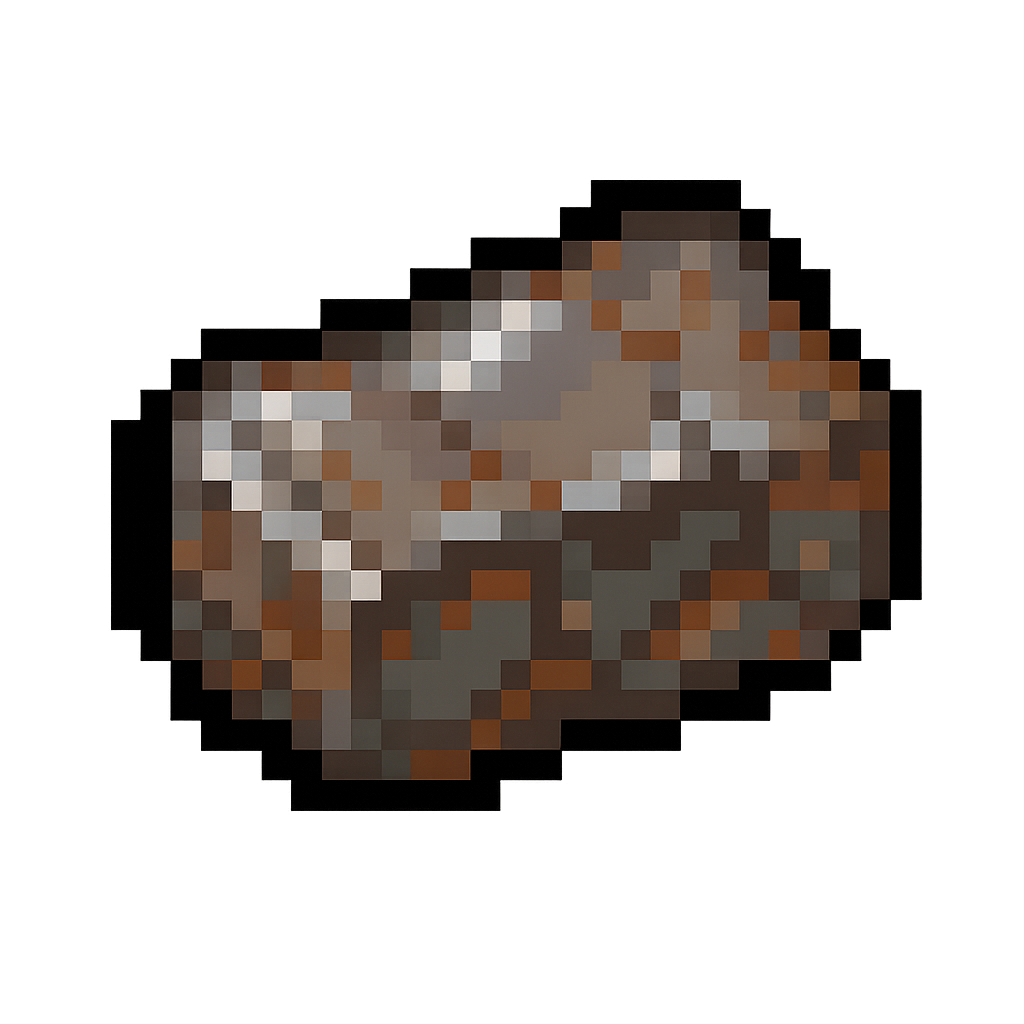
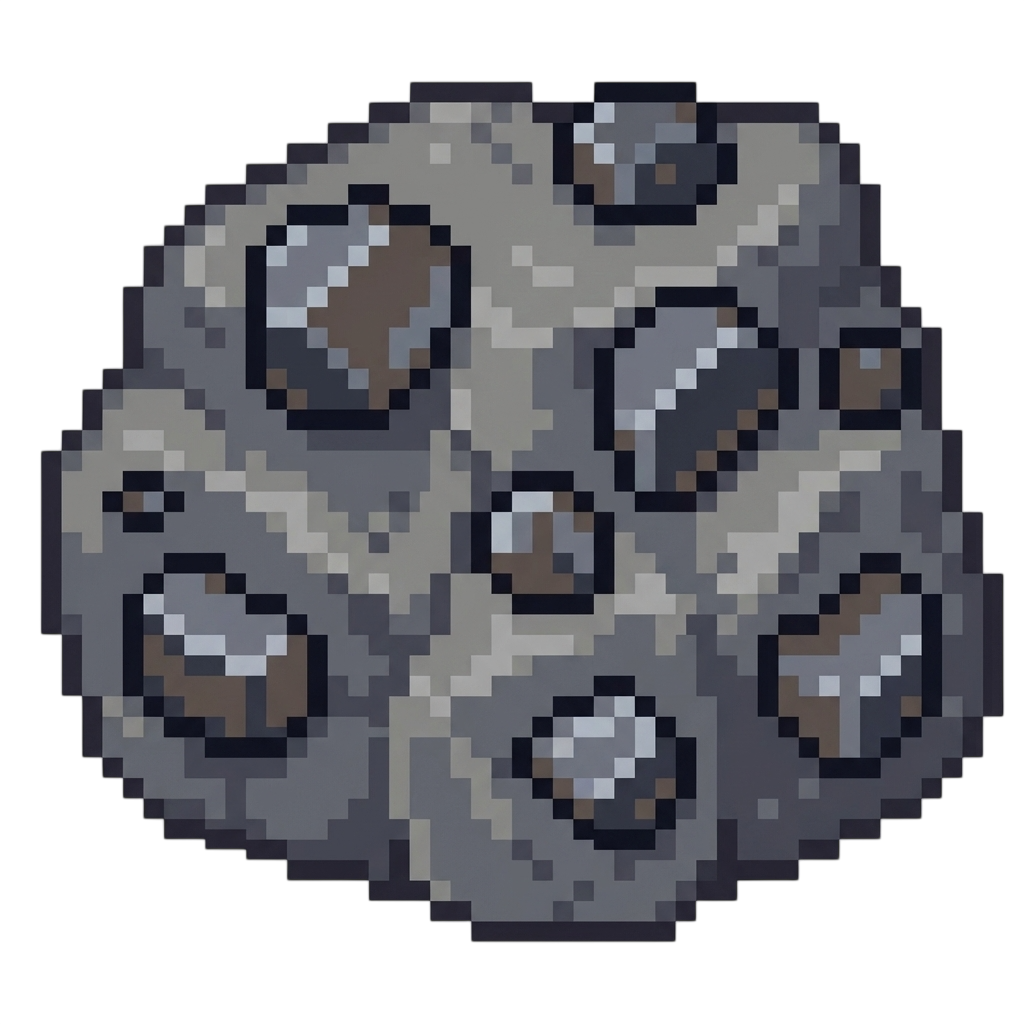
시설 업그레이드 및 동기화 로직 개선, 모바일 로그아웃 수정
- 시설 업그레이드 시 골드 및 자원 차감 로직 구현 (useGameStore.ts)
- 시설 데이터 저장 시 upsert 사용하여 누락 방지 (useFacilities.ts, useBatchSync.ts)
- 모바일 로그아웃 시 화면 겹침 해결을 위한 페이지 새로고침 추가 (UIOverlay.tsx)
- 대장간 생산품(주괴) 이미지 경로 수정 및 철광석 이미지 교체
- 배치 동기화 에러(23514) 발생 시 자동 복구 로직 추가

diff --git a/src/store/useGameStore.ts b/src/store/useGameStore.ts
@@ -68,29 +68,58 @@ export const useGameStore = create<GameState>((set, get) => ({
     batchFacilitySyncCallback: null,
     setBatchFacilitySyncCallback: (callback) => set({ batchFacilitySyncCallback: callback }),
 
-    upgradeFacility: async (facilityId, _cost) => {
+    upgradeFacility: async (facilityId, cost) => {
         const state = get()
+        const { consumeMaterials, playerMaterials } = useAlchemyStore.getState()
 
-        // Check if affordable
-        // Note: cost logic might need to be more robust, assuming cost contains materialIds and gold
-        // For now, simple deduction
-        // This is a simplified implementation to fix the crash. 
-        // Real implementation might need to verify detailed costs.
+        // 1. Separate Gold and Materials
+        const goldCost = cost['gold'] || 0
+        const materialCost = { ...cost }
+        delete materialCost['gold']
 
-        // Deduct resources
-        // We need to access useAlchemyStore to ensure material counts are accurate if they are separate?
-        // But useGameStore.resources seems to be a mirror.
+        // 2. Check Sufficiency
+        // Check Gold
+        const currentGold = state.resources['gold'] || 0
+        if (currentGold < goldCost) {
+            console.warn(`[GameStore] Not enough gold: ${currentGold} < ${goldCost}`)
+            return
+        }
 
-        // TODO: Implement proper cost deduction verification if needed. 
-        // For now trusting the UI/caller has verified or we verify here.
+        // Check Materials
+        for (const [matId, amount] of Object.entries(materialCost)) {
+            const currentAmount = playerMaterials[matId] || 0
+            if (currentAmount < amount) {
+                console.warn(`[GameStore] Not enough material ${matId}: ${currentAmount} < ${amount}`)
+                return
+            }
+        }
 
-        // Updating local state
+        // 3. Deduct Resources
+        // Deduct Gold
+        if (goldCost > 0) {
+            const newResources = { ...state.resources }
+            newResources['gold'] = currentGold - goldCost
+            set({ resources: newResources })
+
+            // Sync Gold (Assume legacy system handles gold sync via useBatchSync/useResources or dedicated gold sync?)
+            // Currently useBatchSync only handles player_material via useAlchemyStore callback
+            // We might need to manually sync gold or use a callback if available.
+            // Looking at useBatchSync logic: it might not cover gold if gold is in player_resource.
+            // Let's rely on local state update for now, user didn't mention gold not saving, just not deducting.
+        }
+
+        // Deduct Materials
+        if (Object.keys(materialCost).length > 0) {
+            await consumeMaterials(materialCost)
+        }
+
+        // 4. Update Facility Level
         const newFacilities = { ...state.facilities }
         newFacilities[facilityId] = (newFacilities[facilityId] || 0) + 1
 
         set({ facilities: newFacilities })
 
-        // Trigger sync callback
+        // Trigger sync callback (Facility Level)
         if (state.batchFacilitySyncCallback) {
             state.batchFacilitySyncCallback(facilityId, newFacilities[facilityId])
         }

diff --git a/src/hooks/useBatchSync.ts b/src/hooks/useBatchSync.ts
@@ -95,13 +95,20 @@ export function useBatchSync(
         if (error) throw error
       }
 
-      // 2. 시설 동기화
-      for (const [facilityId, level] of Object.entries(facilityUpdates)) {
-        await supabase
+      // 2. 시설 동기화 (upsert 사용 - 레코드가 없어도 생성되도록)
+      if (Object.keys(facilityUpdates).length > 0) {
+        const facilityRecords = Object.entries(facilityUpdates).map(([facilityId, level]) => ({
+          user_id: userId,
+          facility_id: facilityId,
+          current_level: level,
+          updated_at: new Date().toISOString()
+        }))
+
+        const { error: facilityError } = await supabase
           .from('player_facility')
-          .update({ current_level: level })
-          .eq('user_id', userId)
-          .eq('facility_id', facilityId)
+          .upsert(facilityRecords, { onConflict: 'user_id,facility_id' })
+
+        if (facilityError) throw facilityError
       }
 
       // 성공 시 큐 초기화
@@ -109,11 +116,23 @@ export function useBatchSync(
       pendingFacilityUpdates.current = {}
       // console.log(`✅ [BatchSync] DB 동기화 완료!`, { materials: updates, facilities: facilityUpdates })
       onSyncCompleteRef.current?.(true, updates)
-    } catch (error) {
+    } catch (error: any) {
       console.error('❌ [BatchSync] DB 동기화 실패:', error)
+
+      // 제약 조건 위반 (예: 수량 부족으로 인한 음수 발생) 또는 치명적 오류
+      if (error?.code === '23514' || error?.code === '23505') {
+        console.warn('⚠ [BatchSync] 해결 불가능한 데이터 불일치 감지. 배치를 폐기하고 상태를 초기화합니다.')
+        // 큐 초기화 (재시도 방지)
+        pendingUpdates.current = {}
+        pendingFacilityUpdates.current = {}
+
+        // TODO: 데이터 재동기화 트리거
+        // loadAllData(userId) 같은 것이 필요함
+      }
+
       onSyncErrorRef.current?.(error as Error)
       onSyncCompleteRef.current?.(false, updates)
-      // 실패 시에도 큐를 유지해서 다음 배치에 재시도
+      // 그 외 네트워크 오류 등은 큐를 유지해서 다음 배치에 재시도
     } finally {
       isSyncing.current = false
     }

diff --git a/src/hooks/useFacilities.ts b/src/hooks/useFacilities.ts
@@ -19,7 +19,6 @@ export function useFacilities(userId: string | undefined) {
         const fetchData = async () => {
             // Clear stale cache to force fresh fetch
             localStorage.removeItem('facility_master_data')
-            console.log('[useFacilities] Cache cleared, fetching fresh data...')
 
             // 2. Fetch fresh data
             // Fetch facility master data
@@ -31,8 +30,6 @@ export function useFacilities(userId: string | undefined) {
             const { data: levelsData } = await supabase
                 .from('facility_level')
                 .select('facility_id, level, name, stats, upgrade_cost')
-
-            console.log('[useFacilities] Raw levelsData from DB:', JSON.stringify(levelsData?.slice(0, 5), null, 2)) // Log first 5 levels
 
             // Fetch player facilities
             const { data: playerFacilitiesData } = await supabase
@@ -57,8 +54,6 @@ export function useFacilities(userId: string | undefined) {
                         }))
                         .sort((a, b) => a.level - b.level),
                 }))
-
-                console.log('[useFacilities] Combined facility data (first facility levels):', JSON.stringify(combined[0]?.levels, null, 2))
 
                 // Update state and cache
                 setFacilities(combined)
@@ -85,12 +80,15 @@ export function useFacilities(userId: string | undefined) {
         const currentLevel = playerFacilities[facilityId] || 0
         const newLevel = currentLevel + 1
 
-        // Update facility level
+        // Update or insert facility level (upsert 사용 - 레코드가 없어도 생성되도록)
         const { error: facilityError } = await supabase
             .from('player_facility')
-            .update({ current_level: newLevel })
-            .eq('user_id', userId)
-            .eq('facility_id', facilityId)
+            .upsert({
+                user_id: userId,
+                facility_id: facilityId,
+                current_level: newLevel,
+                updated_at: new Date().toISOString()
+            }, { onConflict: 'user_id,facility_id' })
 
         if (facilityError) {
             console.error('Failed to upgrade facility:', facilityError)

diff --git a/src/ui/UIOverlay.tsx b/src/ui/UIOverlay.tsx
@@ -20,11 +20,21 @@ export default function UIOverlay() {
     const [showAccountLinkModal, setShowAccountLinkModal] = useState(false)
 
     // Phase 1: 배치 동기화 시스템
+    const { loadAllData } = useAlchemyStore()
     const { queueUpdate, queueFacilityUpdate, forceSyncNow } = useBatchSync(user?.id, {
         batchInterval: 30000, // 30초마다 자동 저장
         onSyncComplete: (success) => {
             if (success) {
                 console.log('✅ [UIOverlay] 배치 동기화 완료')
+            }
+        },
+        onSyncError: async (error: any) => {
+            // 치명적인 동기화 에러(예: 데이터 불일치) 발생 시 전체 데이터 리로드
+            if (error?.code === '23514' || error?.code === '23505') {
+                console.warn('⚠ [UIOverlay] 데이터 불일치 감지. 서버 데이터로 동기화합니다.')
+                if (user?.id) {
+                    await loadAllData(user.id)
+                }
             }
         }
     })
@@ -200,7 +210,13 @@ export default function UIOverlay() {
                             </button>
                         )}
                         <button
-                            onClick={signOut}
+                            onClick={async () => {
+                                // 로그아웃 전에 저장되지 않은 변경사항 동기화
+                                await forceSyncNow()
+                                await signOut()
+                                // 깨끗한 상태 전환을 위해 페이지 새로고침
+                                window.location.reload()
+                            }}
                             style={{
                                 padding: '6px 10px',
                                 backgroundColor: 'transparent',

diff --git a/src/ui/ResourceIcon.tsx b/src/ui/ResourceIcon.tsx
@@ -88,11 +88,11 @@ const RESOURCE_ICONS: Record<string, string> = {
     // essence_earth: '🪨',
     // essence_wind: '🌪',
     // Ingots
-    ingot_copper: '/assets/materials/coper_ingot.png',
-    ingot_iron: '/assets/materials/iron_ingot.png',
-    ingot_silver: '/assets/materials/silver_ingot.png',
-    ingot_gold: '/assets/materials/gold_ingot.png',
-    ingot_platinum: '💠', // No image available yet
+    ingot_copper: '/assets/materials/ingot_copper.png',
+    ingot_iron: '/assets/materials/ingot_iron.png',
+    ingot_silver: '/assets/materials/ingot_silver.png',
+    ingot_gold: '/assets/materials/ingot_gold.png',
+    ingot_platinum: '/assets/materials/ingot_platinum.png',
 }
 
 export default function ResourceIcon({ resourceId, size = 20, iconUrl }: Props) {

diff --git a/src/ui/LoginScreen.tsx b/src/ui/LoginScreen.tsx
@@ -74,7 +74,8 @@ export default function LoginScreen({ onSignIn, onSignUp, onGuestLogin }: LoginS
             justifyContent: 'center',
             background: 'linear-gradient(135deg, #0f172a 0%, #1e293b 50%, #0f172a 100%)',
             fontFamily: "'Pretendard', 'Noto Sans KR', sans-serif",
-            overflow: 'hidden'
+            overflow: 'hidden',
+            zIndex: 9999
         }}>
             {/* 배경 장식 요소 - Floating Blobs */}
             <div style={{
